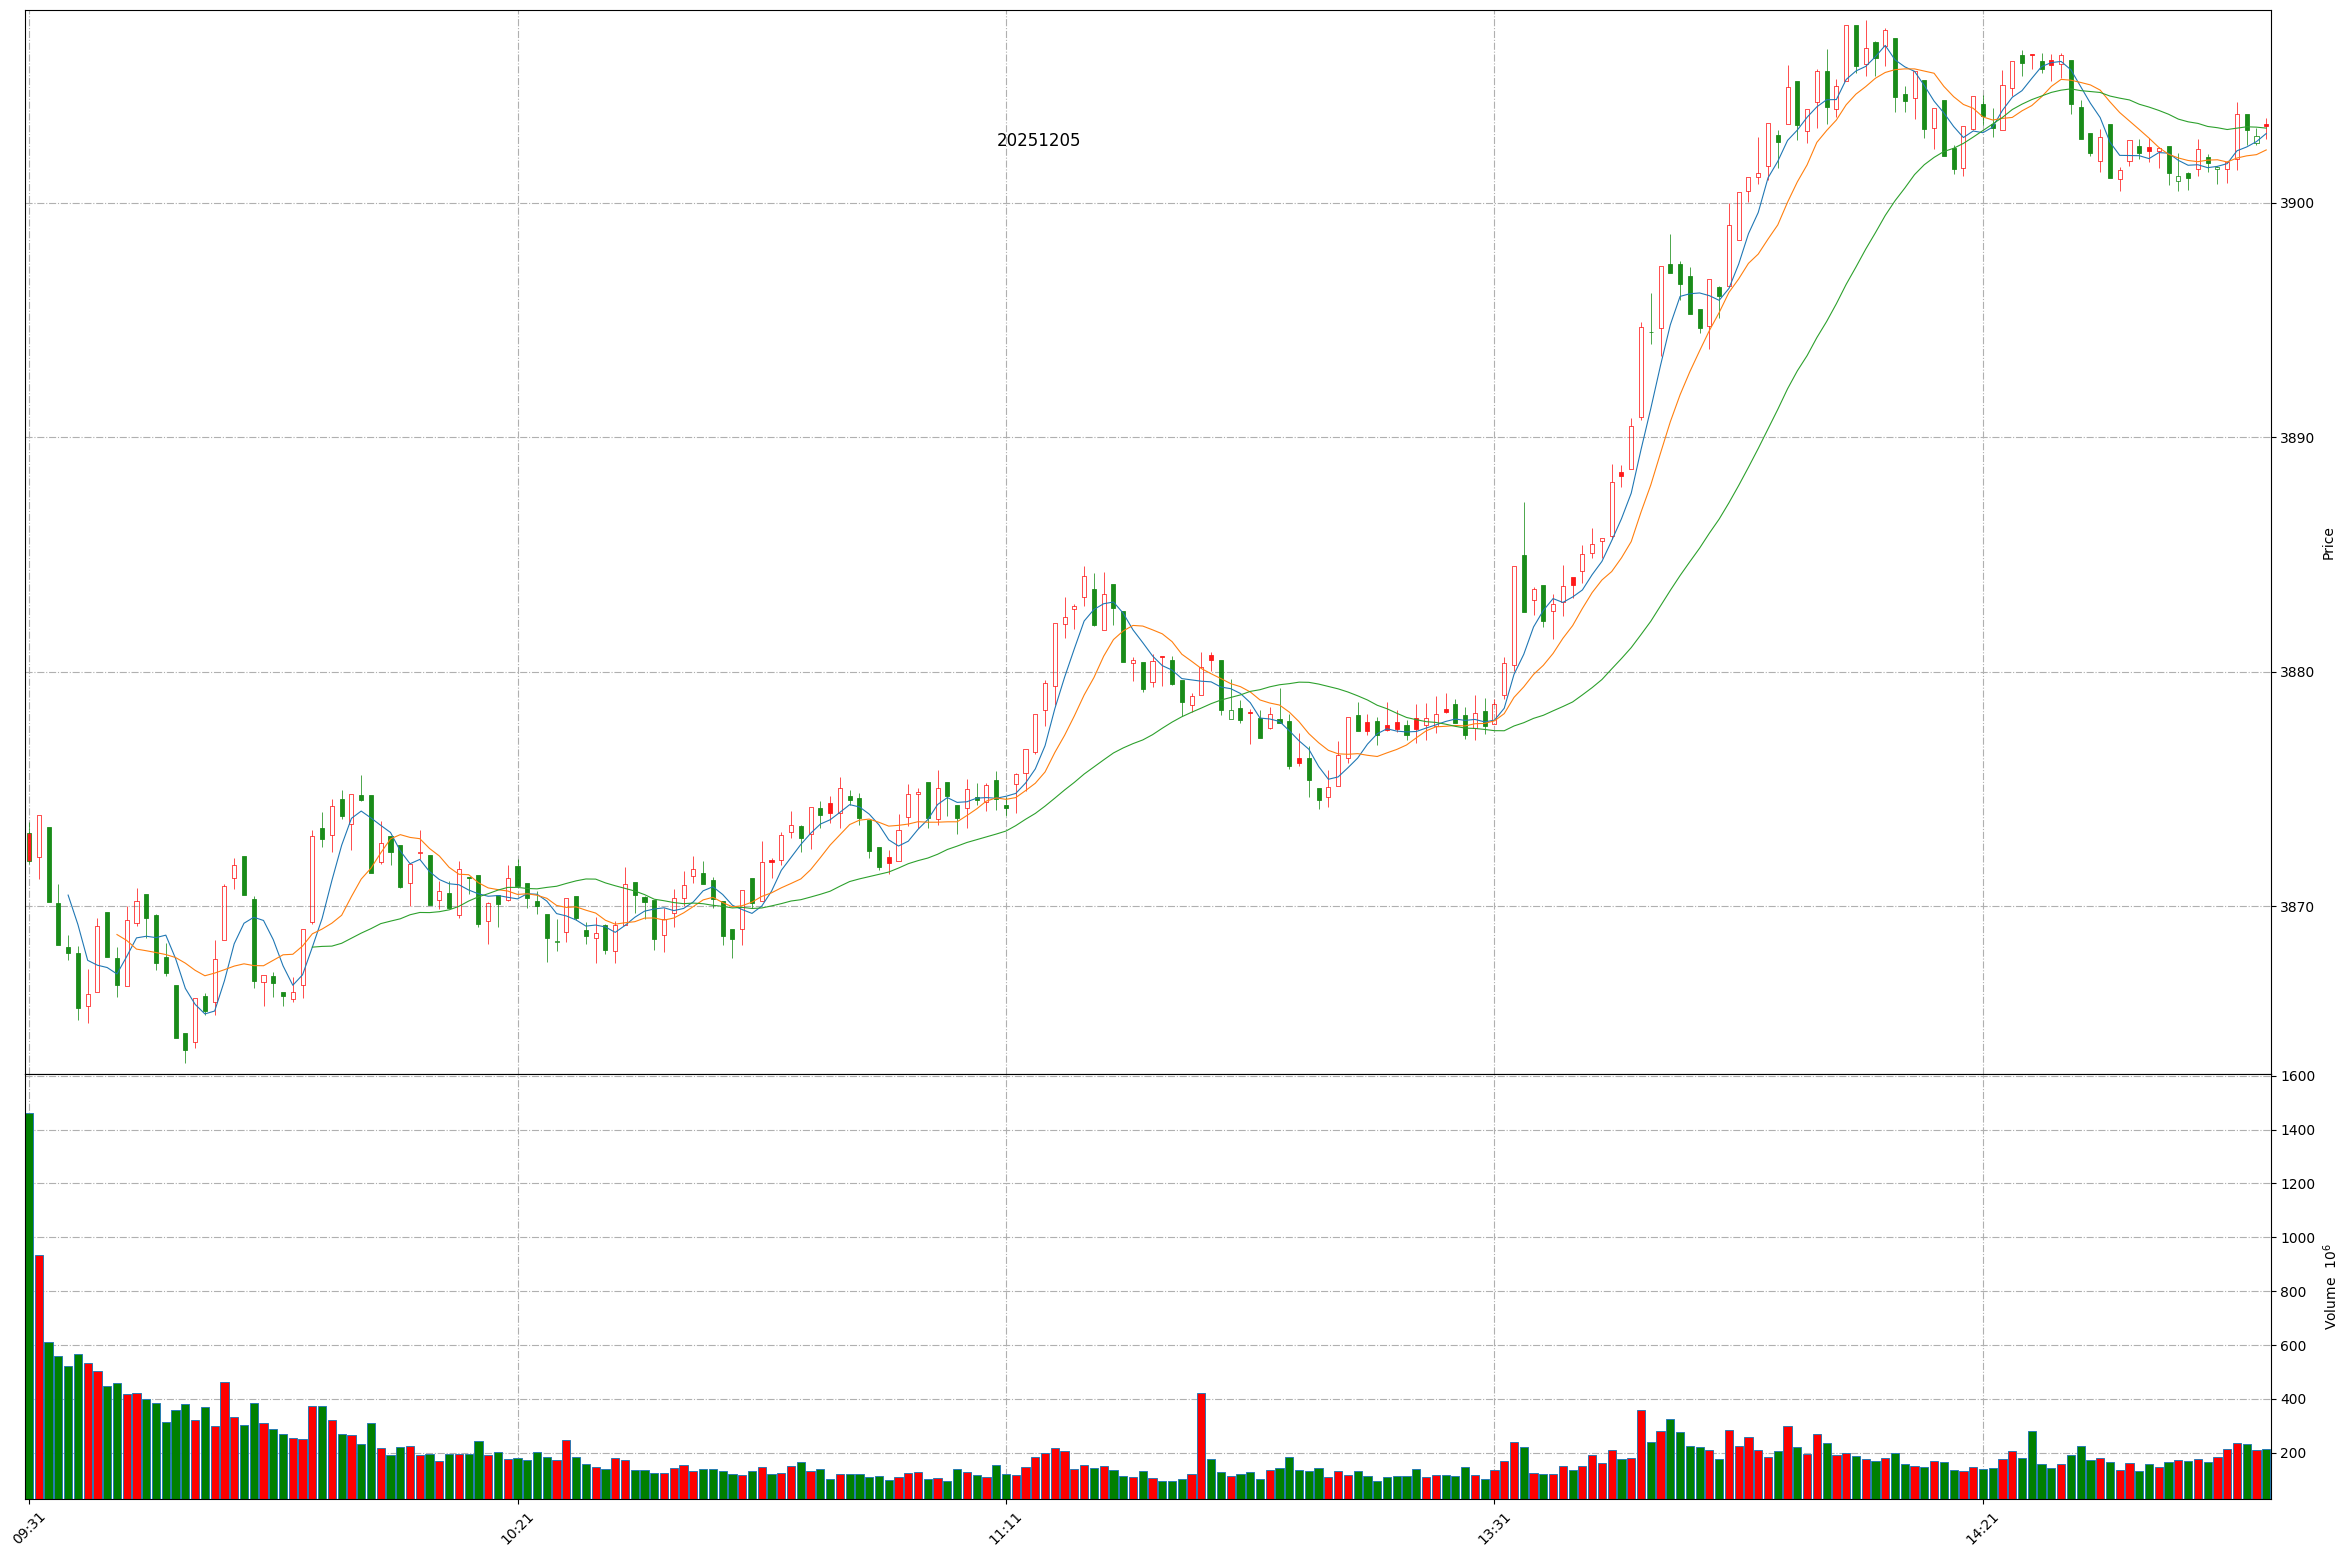
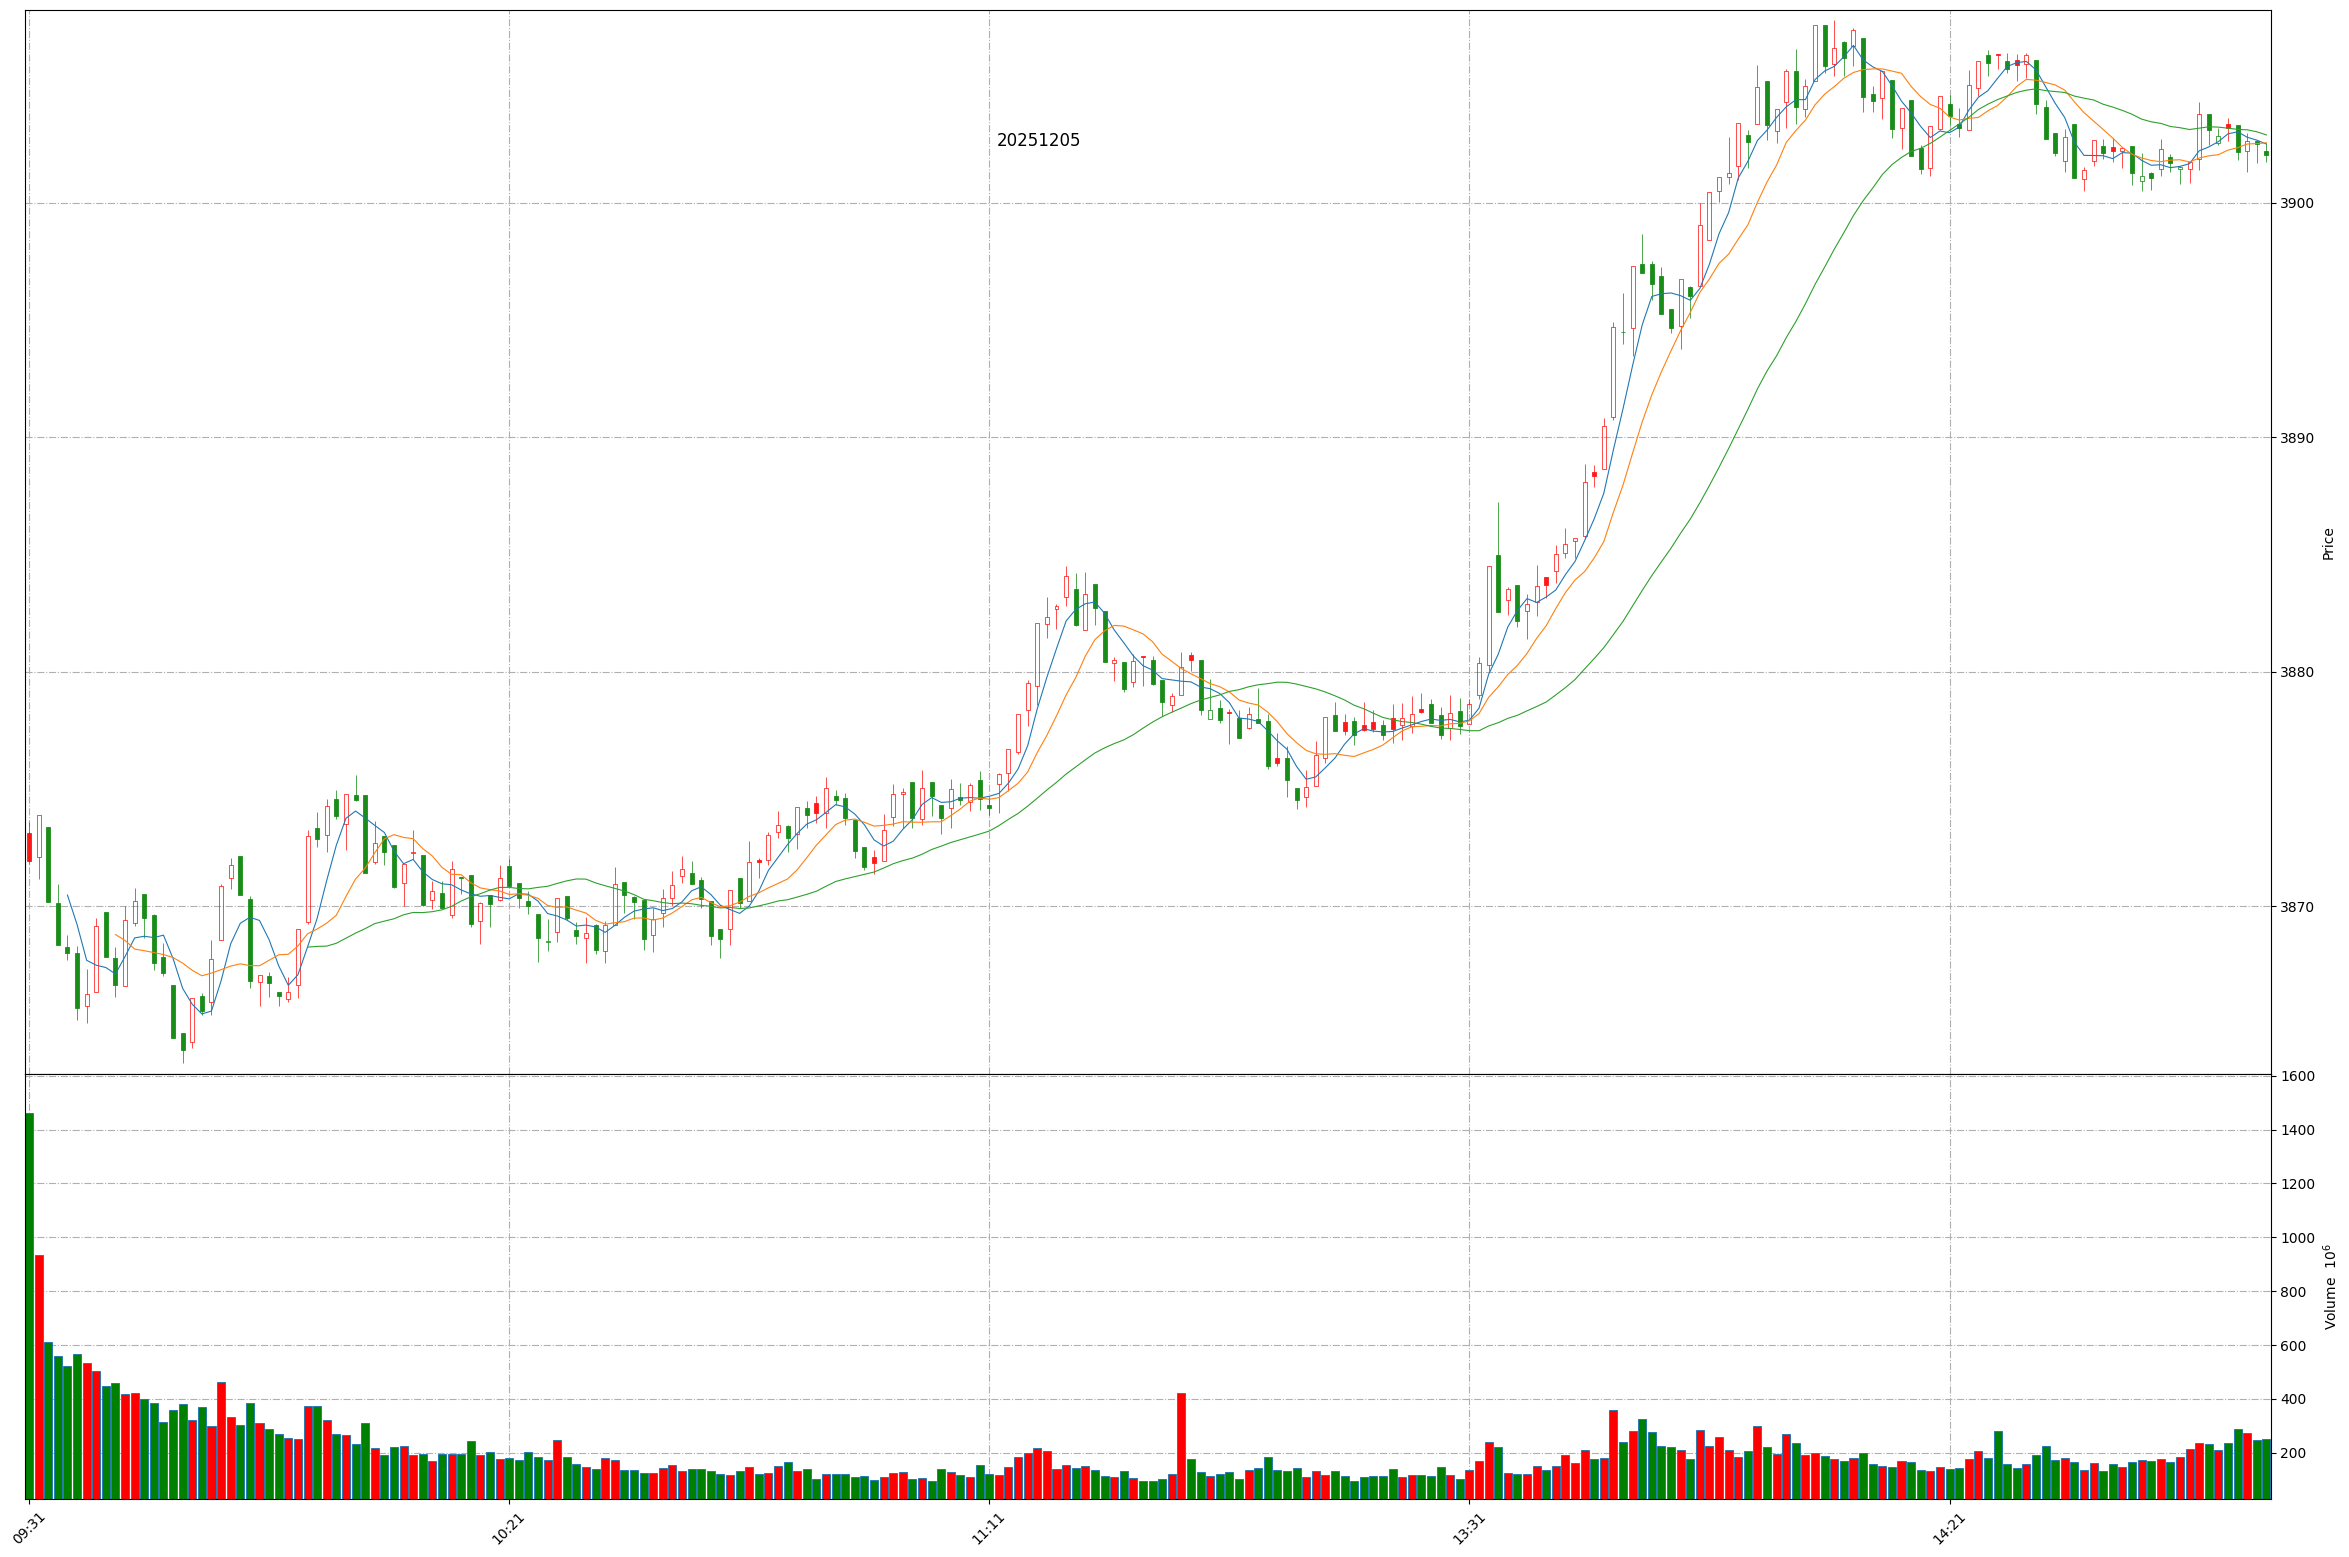
Github action update at 2025-12-05 14:54:11.

diff --git a/README.md b/README.md
@@ -1,11 +1,11 @@
 
 # Daily-A-share-market-quotes 每日 A 股指数（5min 更新）- 20251205
 
-### 上证指数 20251205 14:50
+### 上证指数 20251205 14:54
 ![](./fig/2025/12/20251205-sh000001.png)
 
-### 深证成指 20251205 14:50
+### 深证成指 20251205 14:54
 ![](./fig/2025/12/20251205-sz399001.png)
 
-### 北证50 20251205 14:50
+### 北证50 20251205 14:54
 ![](./fig/2025/12/20251205-bj899050.png)
